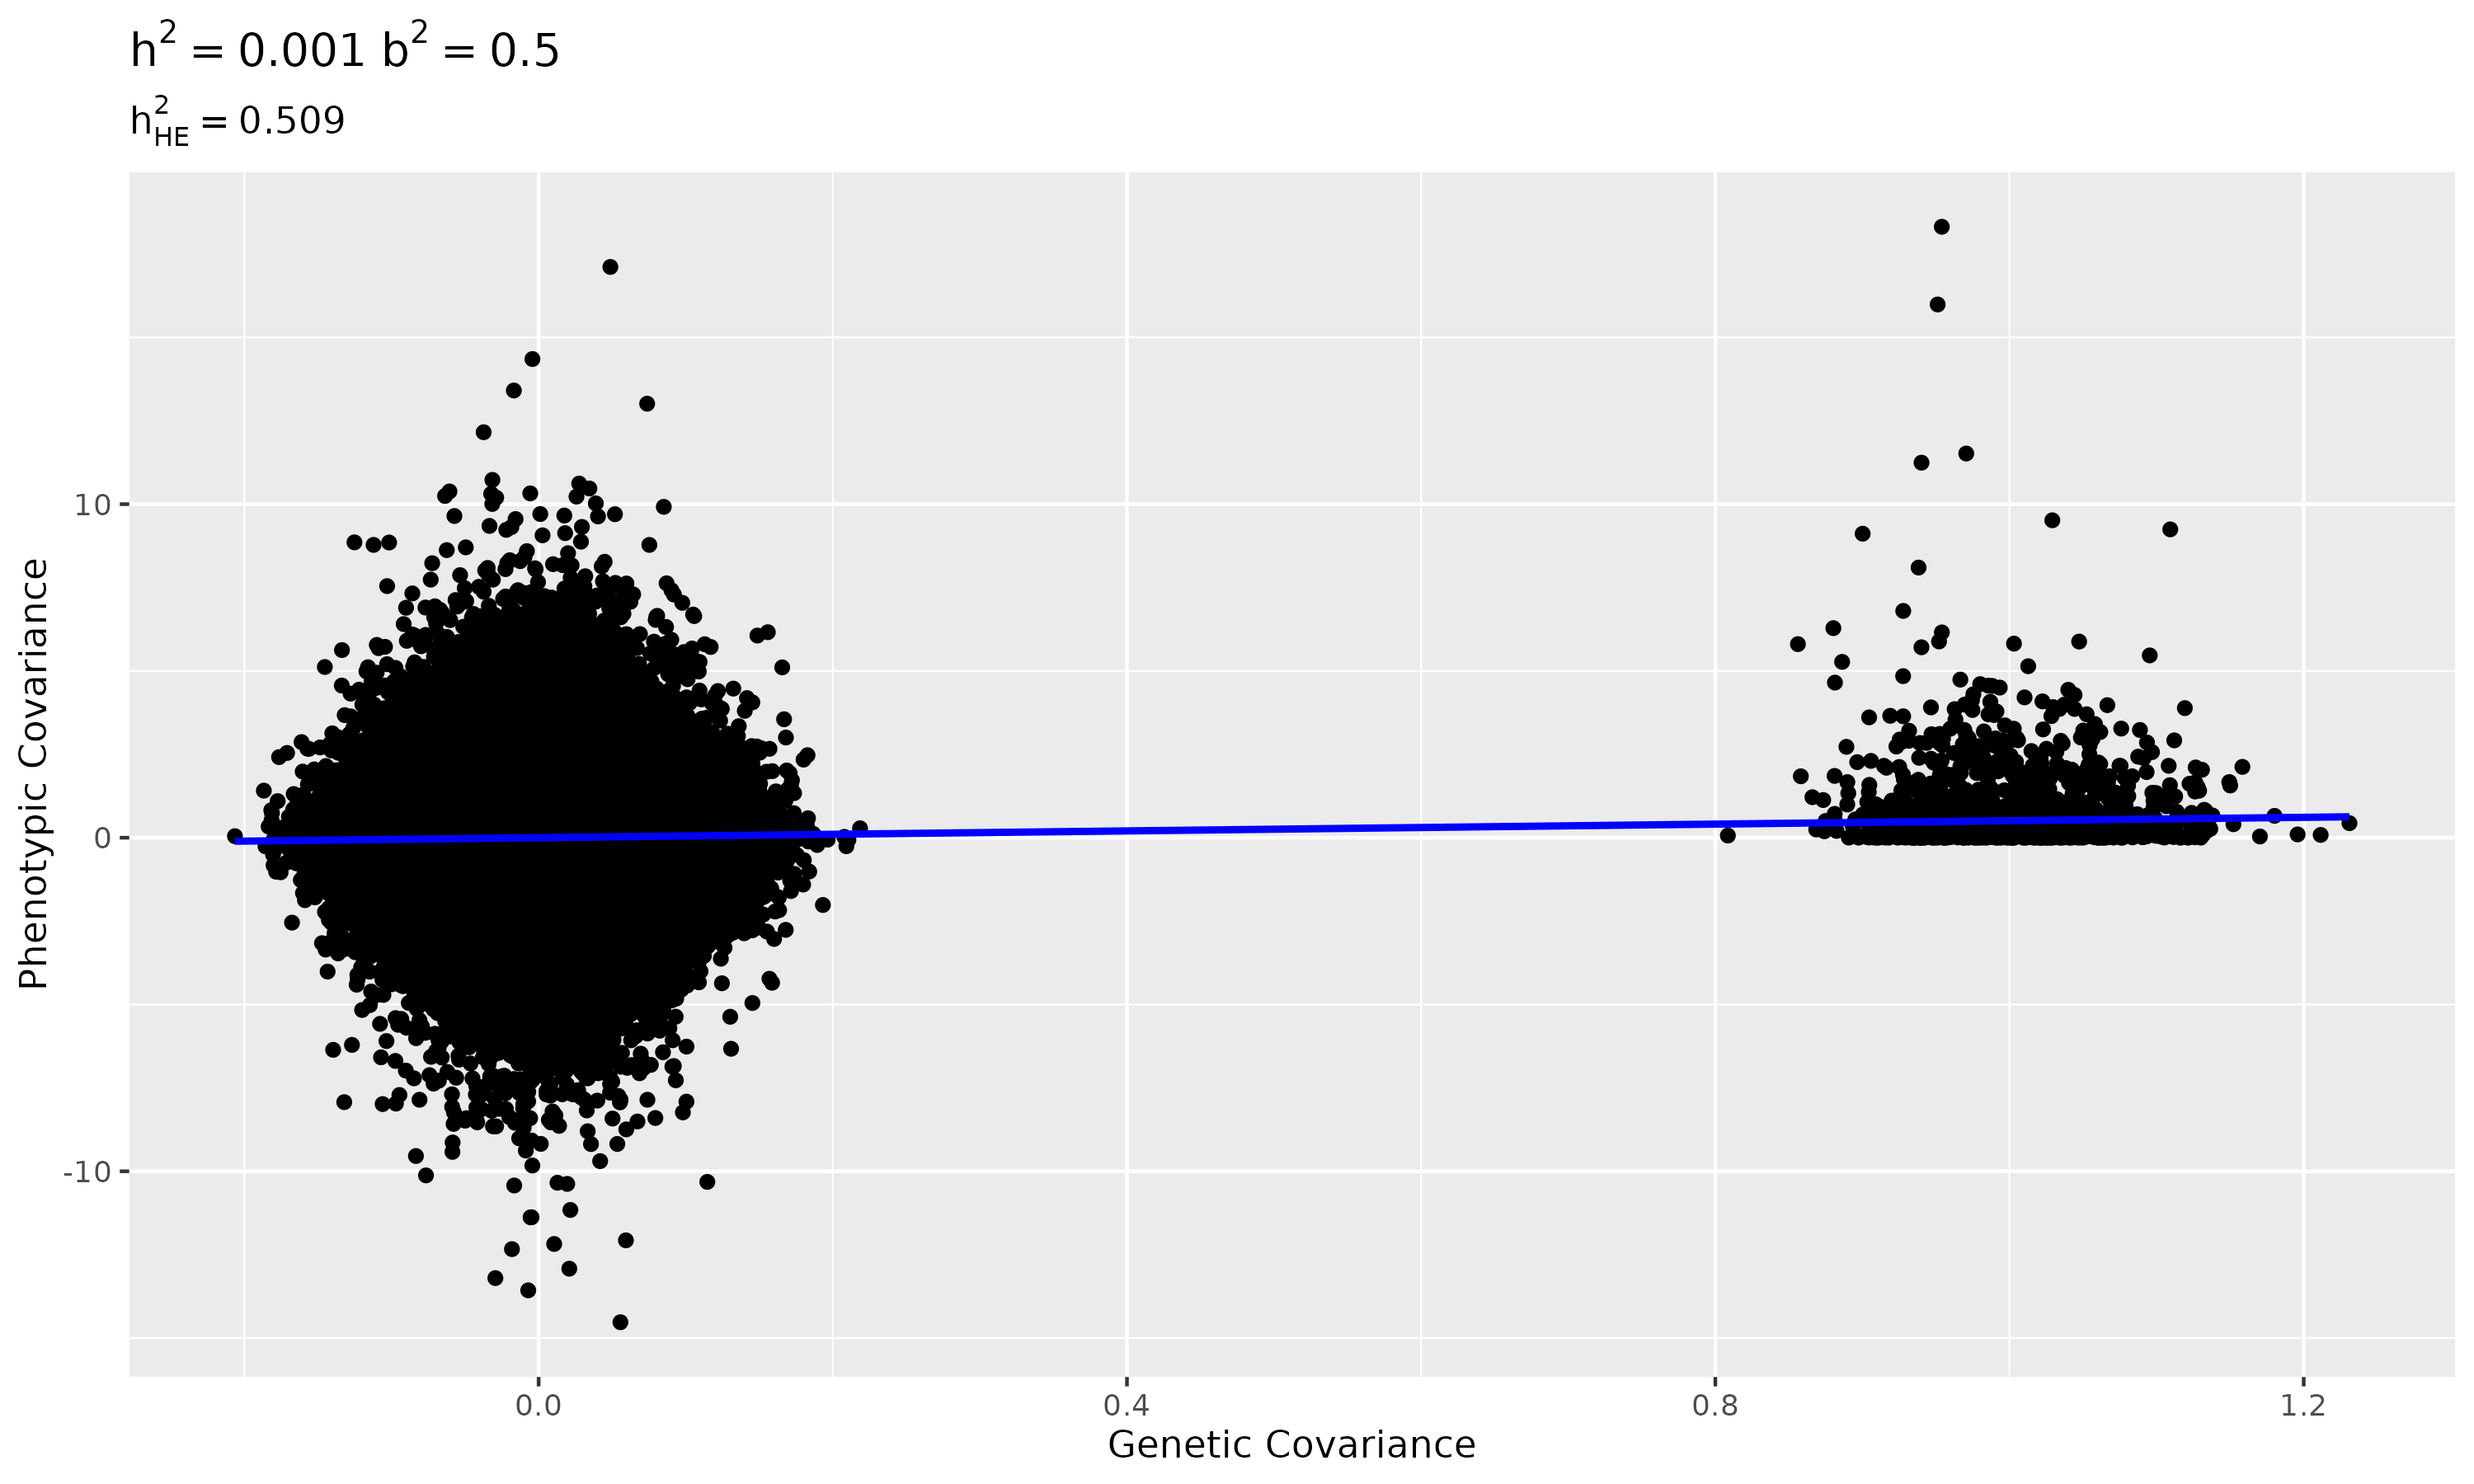
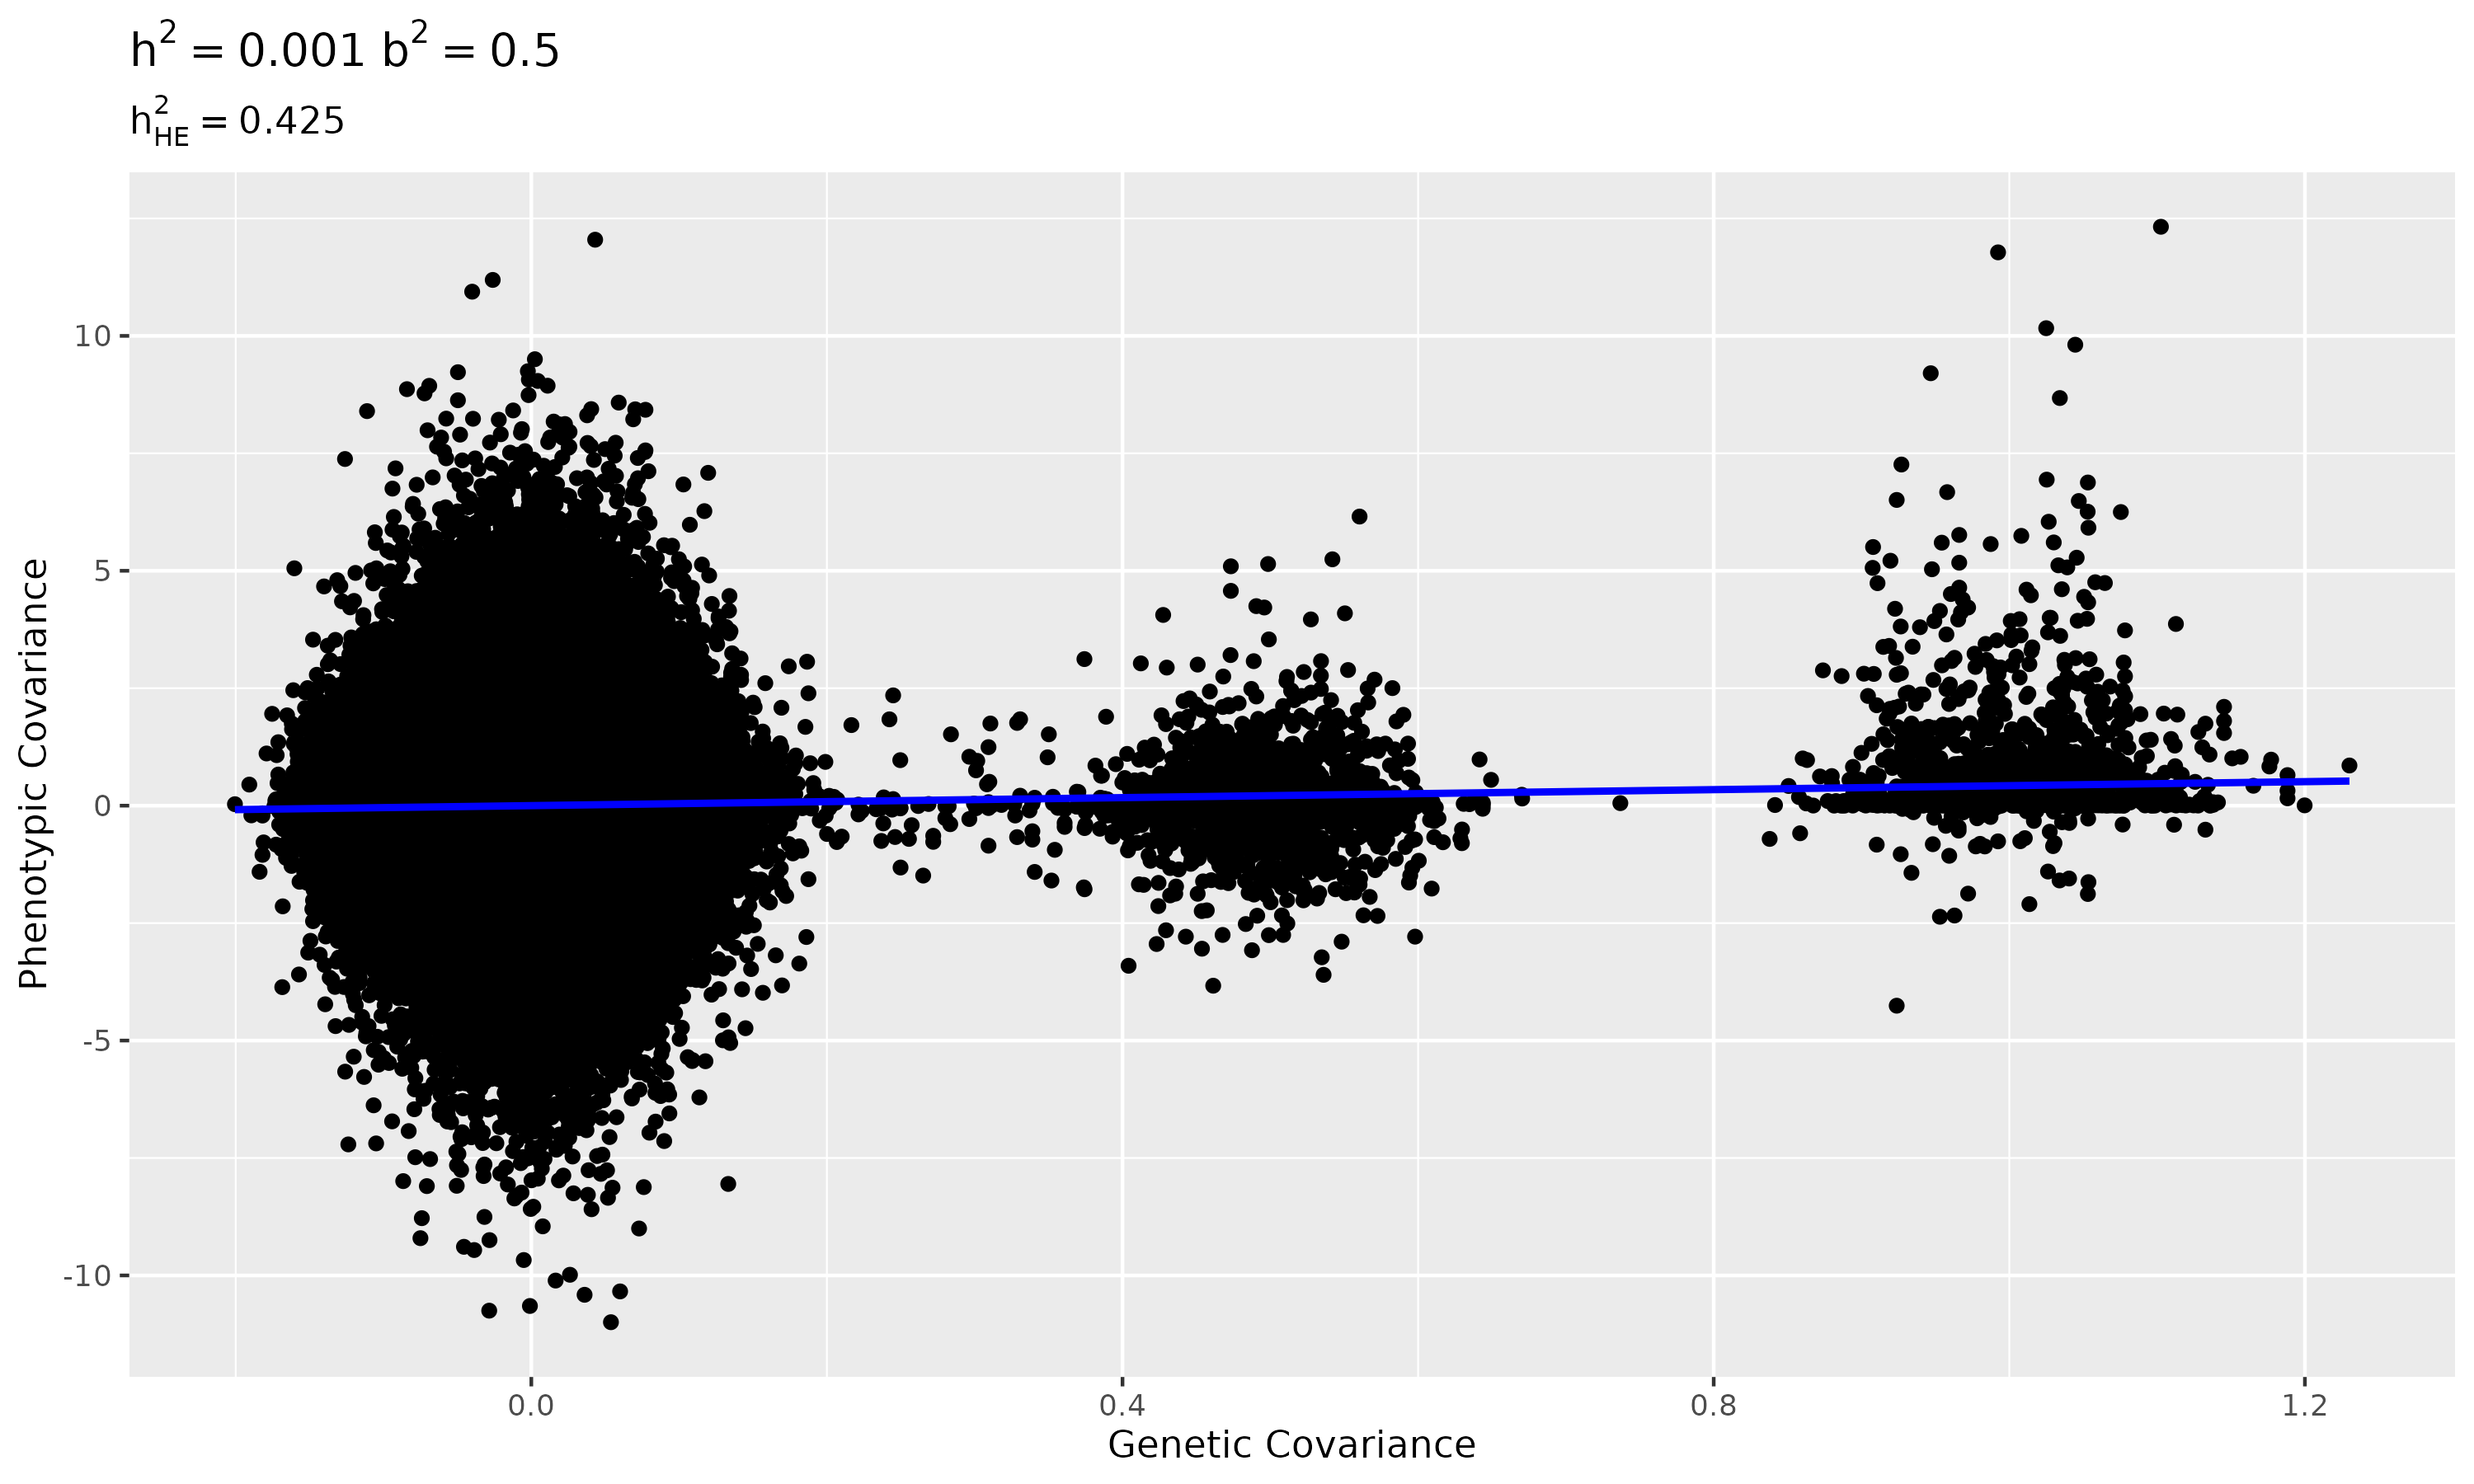
i think VCT (nearly) works now

diff --git a/scripts/sim_vct.py b/scripts/sim_vct.py
@@ -175,7 +175,7 @@ sim = xft.sim.Simulation(
 )
 
 print('Running generations...')
-sim.run(1)
+sim.run(5)
 print('Complete.')
 print(sim)
     
